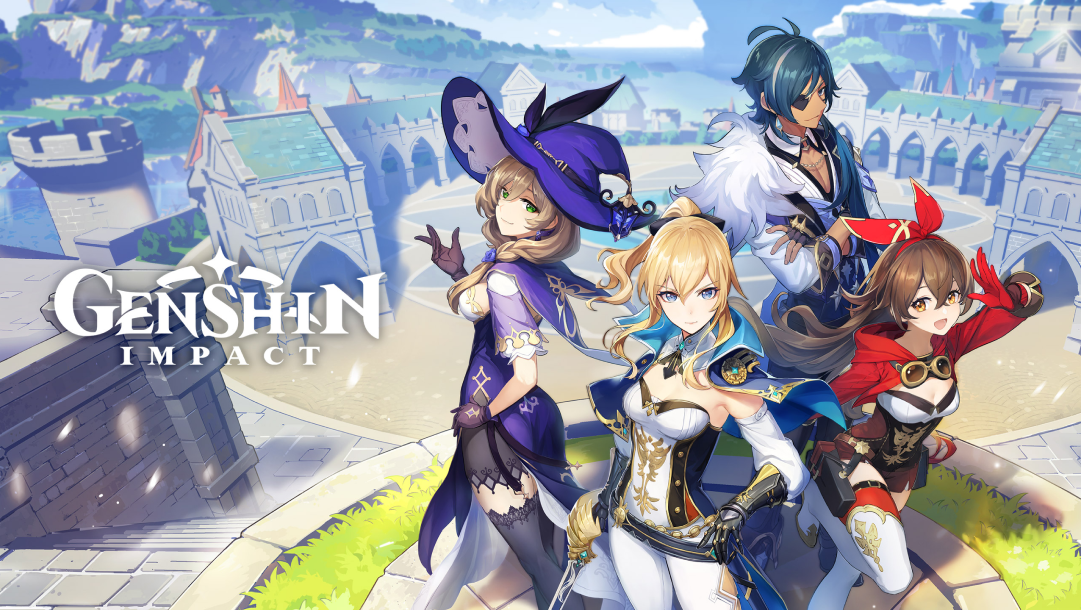
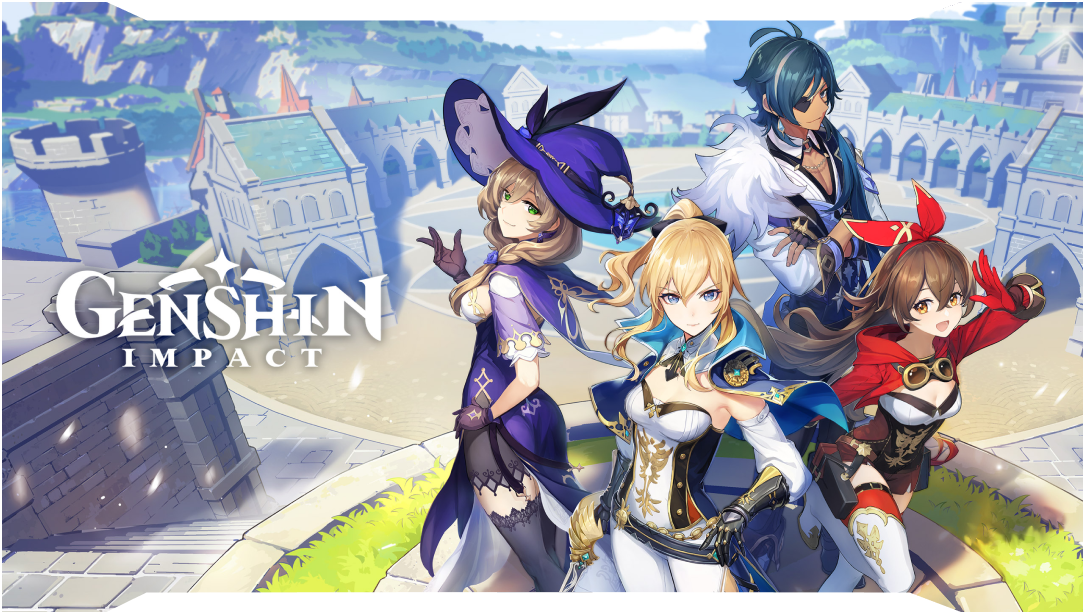
Mudança

diff --git a/src/app/about/about.component.html b/src/app/about/about.component.html
@@ -2,18 +2,18 @@
     <div class="container mx-auto py-12">
       <div class="grid grid-cols-1 lg:grid-cols-2 gap-4">
         <div class="col-span-1 lg:col-span-2 mb-4">
-          <div class="bg-transparent shadow-lg flex flex-col justify-center items-center">
-            <img [src]="cards[0].imagem" [alt]="cards[0].titulo" class="w-full object-cover rounded-xl" />
+          <div class="bg-transparent flex flex-col justify-center items-center">
+            <img [src]="cards[0].imagem" [alt]="cards[0].titulo" class="w-full object-cover" />
           </div>
         </div>
         <div class="col-span-1">
-          <div class="bg-transparent shadow-lg rounded-lg flex flex-col items-center">
-            <img [src]="cards[1].imagem" [alt]="cards[1].titulo" class="w-full object-cover rounded-xl" />
+          <div class="bg-transparent rounded-lg flex flex-col items-center">
+            <img [src]="cards[1].imagem" [alt]="cards[1].titulo" class="w-full object-cover" />
           </div>
         </div>
         <div class="col-span-1">
-          <div class="bg-transparent shadow-lg rounded-lg flex flex-col items-center">
-            <img [src]="cards[2].imagem" [alt]="cards[2].titulo" class="w-full object-cover rounded-xl" />
+          <div class="bg-transparent rounded-lg flex flex-col items-center">
+            <img [src]="cards[2].imagem" [alt]="cards[2].titulo" class="w-full object-cover" />
           </div>
         </div>
       </div>

diff --git a/src/app/games/games.component.html b/src/app/games/games.component.html
@@ -9,8 +9,8 @@
             </div>
         <div class="bg-transparent carousel flex transition-transform duration-500">
             <div *ngFor="let game of games" class="bg-transparent carousel-item w-1/3 flex-shrink-0 p-4">
-                <div class="bg-blue-custom p-2 rounded-xl">
-                    <img [src]="game.image" alt="{{ game.name }}" class="w-full h-64 object-cover rounded-lg">
+                <div class="bg-blue-custom p-2">
+                    <img [src]="game.image" alt="{{ game.name }}" class="w-full h-64 object-cover">
                     <p class="bg-transparent text-2xl text-center my-2 text-white">{{ game.name }}</p>
                 </div>
             </div>

diff --git a/src/app/about/about.component.ts b/src/app/about/about.component.ts
@@ -15,15 +15,15 @@ export class AboutComponent {
   cards: CardProps[] = [
     {
       titulo: 'Card Superior',
-      imagem: 'assets/images/star.png',
+      imagem: 'assets/images/banner1.png',
     },
     {
       titulo: 'Card Inferior Esquerdo',
-      imagem: 'assets/images/star.png',
+      imagem: 'assets/images/banner2.png',
     },
     {
       titulo: 'Card Inferior Direito',
-      imagem: 'assets/images/star.png',
+      imagem: 'assets/images/banner3.png',
     },
   ];
 }

diff --git a/src/app/contact/contact.component.ts b/src/app/contact/contact.component.ts
@@ -14,7 +14,7 @@ export class ContactComponent {
     message: ''
   };
 
-  contactImage = 'assets/contact-banner.png';
+  contactImage = 'assets/images/contact.png';
 
   onSubmit() {
     console.log('Email:', this.contact.email);

diff --git a/src/app/games/games.component.css b/src/app/games/games.component.css
@@ -15,10 +15,6 @@
   padding: 1rem;
 }
 
-.carousel-item img {
-  border-radius: 5px;
-}
-
 .bg-blue-custom {
   background-color: #050912;
 }
